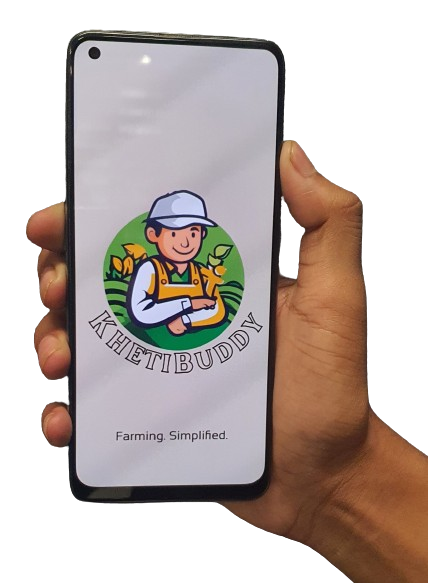
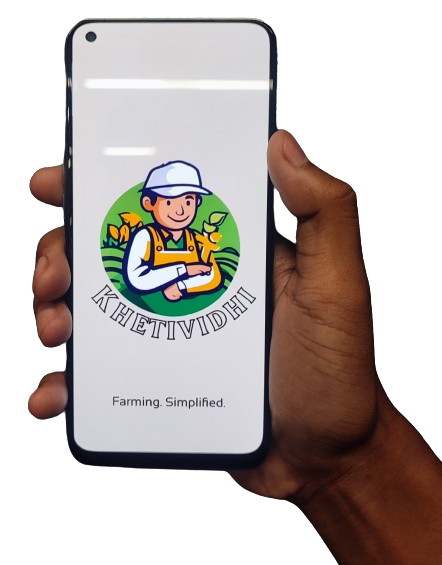
aa

diff --git a/index.html b/index.html
@@ -3,14 +3,14 @@
 <head>
     <meta charset="UTF-8">
     <meta name="viewport" content="width=device-width, initial-scale=1.0">
-    <title>Product Website</title>
+    <title>Home| khetiVidhi</title>
     <link rel="stylesheet" href="style.css">
 </head>
 <body>
     <header>
         <nav class="navbar">
             <div class="logo">
-                <img src="Asset/KhetiBuddy-LOGO.png" alt="Logo">
+                <img src="Asset/khetiVidhi.png" alt="Logo">
             </div>
             <ul>
                 <li><a href="#home">Home</a></li>
@@ -25,11 +25,11 @@
     <section id="home">
         <div class="home-content">
 
-            <h2 id="title">KhetiBuddy</h2>
-            <p id="content">Khetibuddy is an innovative platform designed to support farmers by providing essential information, resources, and services to improve crop health, maximize profits, and facilitate sustainable farming practices.</p>
+            <h2 id="title">KhetiVidhi</h2>
+            <p id="content">KhetiVidhi is an innovative platform designed to support farmers by providing essential information, resources, and services to improve crop health, maximize profits, and facilitate sustainable farming practices.</p>
             <a href="#Features" class="btn">Learn More</a>
         </div>
-        <img id="home-img" src="Asset/KhetiBuddy-LOGO.png" alt="Home Image">
+        <img id="home-img" src="Asset/khetiVidhi.png" alt="Home Image">
     </section>
     
 <section id="Features">
@@ -142,9 +142,9 @@
     <section id="DownloadApp">
         <div class="DownloadApp">
           <div class="left-block"> 
-             <h1 id="heading">Download KhetiBuddy</h1>
-             <h4 id="heading2"> Use Khetibuddy accross your device</h4>
-             <p id="para">By installing KhetiBuddy, you agree to our <u>terms & conditions.</u></p>
+             <h1 id="heading">Download KhetiVidhi</h1>
+             <h4 id="heading2"> Use KhetiVidhi accross your device</h4>
+             <p id="para">By installing KhetiVidhi, you agree to our <u>terms & conditions.</u></p>
              <img src="Asset/qrcode.png" alt=" QR Code" id="QRimage">
           </div>
           <img  src="Asset/appdownload.png" alt="application download image" id="app-img">
@@ -163,7 +163,7 @@
             <div class="contact-section">
                 <div class="contact-item" id="email">
                     <img src="Asset/email-removebg-preview.png" alt="Email" class="contact-img">
-                    <p>: abc@gmail.com</p>
+                    <a  id = "mail" href = "https://mail.google.com/mail/?view=cm&fs=1&to=algoallies01@gmail.com"> : algoallies01@gmail.com</a>
                 </div>
             
                 <div class="contact-item" id="phone">

diff --git a/style.css b/style.css
@@ -3,6 +3,42 @@
 @import url('https://fonts.googleapis.com/css2?family=Inika:wght@400;700&display=swap');
 @import url('https://fonts.googleapis.com/css2?family=Itim&display=swap');
 
+
+:root {
+    --header-height: 3rem;
+    --font-semi: 600;
+    --hue-color: 263;
+    --first-color: hsl(var(--hue-color), 89%, 60%);
+    --second-color: hsl(var(--hue-color), 56%, 12%);
+    --body-font: 'Poppins', sans-serif;
+    --big-font-size: 2rem;
+    --h2-font-size: 1.25rem;
+    --normal-font-size: .938rem;
+    --smaller-font-size: .75rem;
+    --mb-2: 1rem;
+    --mb-4: 2rem;
+    --mb-5: 2.5rem;
+    --mb-6: 3rem;
+    --z-back: -10;
+    --z-fixed: 100;
+  }
+  @media screen and (min-width: 968px) {
+    :root {
+      --big-font-size: 3.5rem;
+      --h2-font-size: 2rem;
+      --normal-font-size: 1rem;
+      --smaller-font-size: .875rem;
+    }
+  }
+  
+  *, ::before, ::after {
+    box-sizing: border-box;
+  }
+  
+  html {
+    scroll-behavior: smooth;
+  }
+
 body {
     font-family: Arial, sans-serif;
     margin: 0;
@@ -280,8 +316,8 @@ footer {
 
 #helpdesk {
     height: 450px;
-    width: 100%;
-    max-width: 400px;
+    width: 90%;
+    max-width: 350px;
     float: left;
     margin-top: -100px;
 }
@@ -312,7 +348,7 @@ footer {
 .contact-item {
     margin-top: 100px;
     height: 40px;
-    width: 300px;
+    width: 250px;
     background-color: #bbdc95;
     border-radius: 10px;
     display: flex;
@@ -324,6 +360,9 @@ footer {
     -o-border-radius: 10px;
 }
 
+#mail{
+    color: black;
+}
 #email {
     margin-bottom: 100px;
 }
@@ -350,7 +389,7 @@ footer {
 }
 
 #team-name {
-    margin-left: -460px;
+    margin-left: -350px;
     font-family: 'Irish Grover', sans-serif;
     font-size: large;
 }
@@ -374,4 +413,5 @@ footer {
 
 .footer img {
     height: 50px;
-    width:
+    width: 50px;
+}
